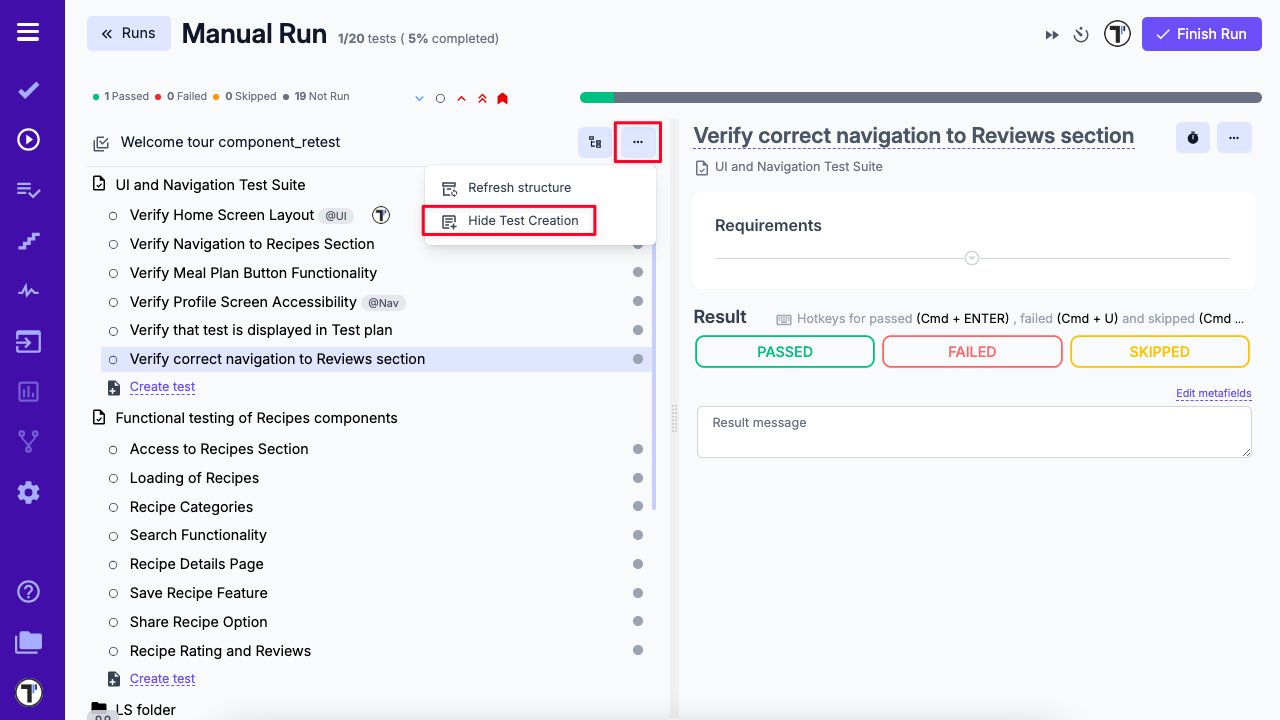
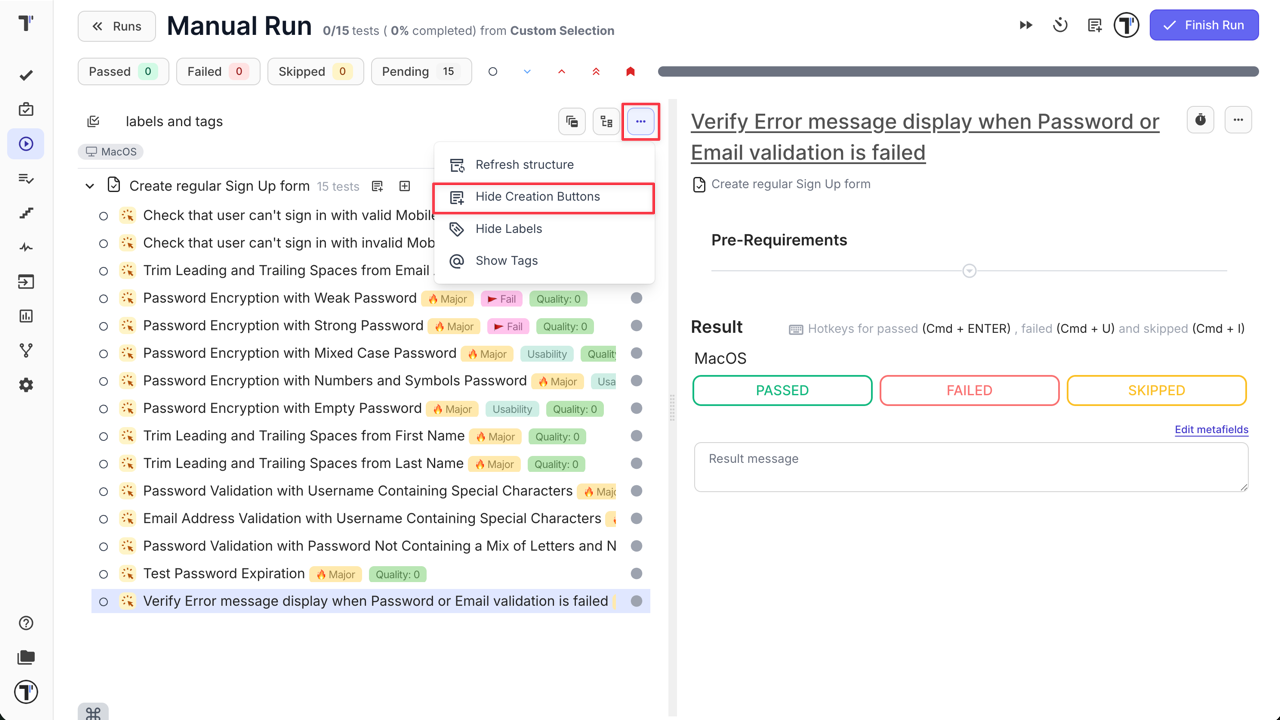
labels and tags

diff --git a/src/content/docs/project/runs/managing-runs.md b/src/content/docs/project/runs/managing-runs.md
@@ -31,17 +31,23 @@ You can create test cases directly within a test Run, avoiding additional naviga
 
 1. Go to the **'Runs'** page.
 2. Start the desired test run.
-3. Scroll to the bottom of the test suite.
-4. Click the **'Create test'** button.
+3. Click the **'Add test to suite'** button.
 
-![Testomat.io - Create test case](./images/Create_Test_button.png)
+![Testomat.io - Create test case](./images/Create_Test_button_1.png)
 
-5. Enter the test case details in the provided field.
-6. Click the checkmark **✔** icon to add the new test case, or the **X** icon to discard it.
+4. Enter the test case title in the **'Test Title'** field on **'Create manual test in suite'** window.
+5. Click **'Add description'** button if you want to add more details to a test case.
+6. Click **'Save test'** button to add the new test case.
+
+OR
+
+7. Click the **'Cancel'** button to discard it.
+
+![Testomat.io - Create test case](./images/Create_Test_button_2.png)
 
 :::note
 
-The **'Create Test'** button can be hidden via the **'Hide Test Creation'** option in the **'Extra menu'** dropdown menu.
+The **'Add test to suite'** button can be hidden via the **'Hide Creation Buttons'** option in the **'Extra menu'** dropdown menu.
 
 ![Testomat.io - Create test case](./images/Hide_test_creatio.png)
 
@@ -52,6 +58,18 @@ The **'Create Test'** button can be hidden via the **'Hide Test Creation'** opti
 - **Identifying gaps in test coverage during execution:** While performing manual testing, a tester discovers an untested scenario. They can instantly add it to the run and repository without switching context.
 - **Capturing exploratory test cases:** Testers conducting exploratory testing can log and formalize new test cases as they go, ensuring useful insights are not lost.
 - **Collaborative test planning in real time:** During team sessions or test reviews, testers can collectively identify and add new tests based on discussion or observed issues.
+
+## Tags and Labels on Manual Run Page
+
+On Manual Run page you can enable/disable the view of tags and labels for your test. To do that, follow next steps:
+
+1. Go to the **'Runs'** page.
+2. Start the desired test run.
+3. Click the **'Extra menu'** button.
+4. Select desired option for labels 'Show/hide Labels'.
+5.  Select desired option for tags 'Show/hide Tags'.
+
+![Testomat.io - Show/hide tags & labels](./images/show_hide_labels.png)
 
 ## Test Case History
 
